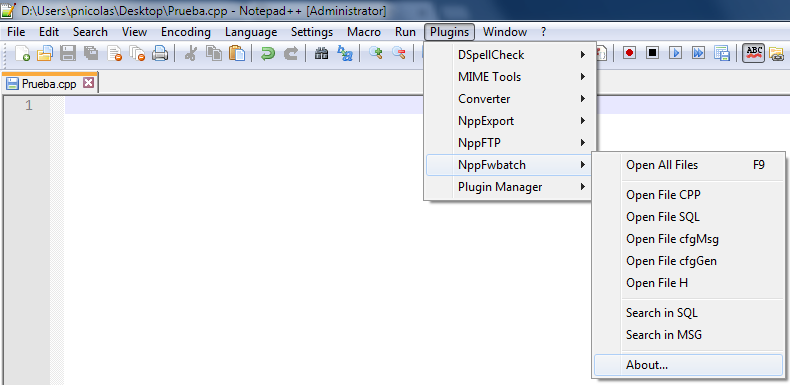
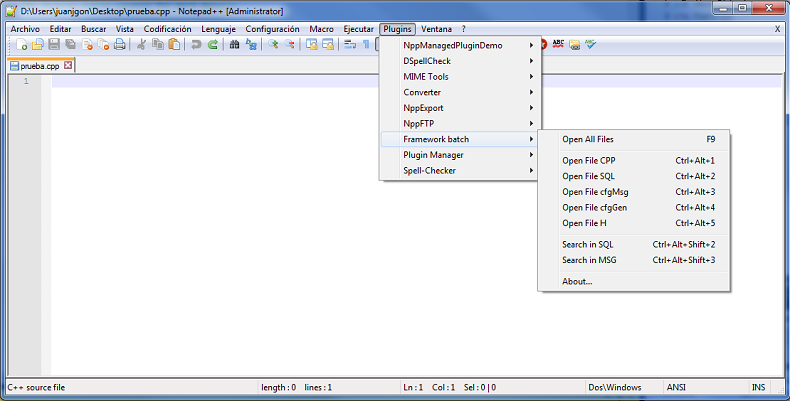
Correcciones menores

Changed region(s): [[0.0, 0.0, 1.0, 1.0]]

diff --git a/Class/Filefw.cpp b/Class/Filefw.cpp
@@ -37,6 +37,8 @@ Filefw::~Filefw()
 wchar_t* Filefw::FileType(wchar_t* nomFich) {
 
 	wchar_t * aux;
+
+	if (nomFich == NULL || wcslen(nomFich) == 0) return false;
 	// Recorremos todos los tipos de fichero mapeados
 	for (std::map<wchar_t*, fileData>::iterator i = filesfw.begin(); i != filesfw.end(); ++i){
 		//Buscamos que tenga ese sufijo
@@ -56,7 +58,7 @@ wchar_t* Filefw::FileType(wchar_t* nomFich) {
 // Indica si es un fichero valido incluido en el listado
 bool Filefw::isFileTypeOK(wchar_t* nomFich) {
 
-	if (nomFich == NULL) {
+	if (nomFich == NULL || wcslen(nomFich) == 0) {
 		return false;
 	}
 
@@ -77,7 +79,7 @@ bool Filefw::isFileTypeOK(wchar_t* nomFich) {
 }
 
 bool Filefw::isType(wchar_t* FileType) {
-	try {
+
 		wchar_t* aux = NULL;
 
 		wchar_t nomFich[MAX_PATH];
@@ -98,10 +100,6 @@ bool Filefw::isType(wchar_t* FileType) {
 		}
 			
 		return false;
-	}
-	catch (...) {
-		return false;
-	}
 }
 
 // Devuelve el tipo de fichero conforme al mapeo de ficheros cargado.
@@ -109,6 +107,8 @@ bool Filefw::isType(wchar_t* FileType) {
 wchar_t* Filefw::FileTypeMap(wchar_t* nomFich) {
 
 	wchar_t * aux;
+
+	if (nomFich == NULL ||  wcslen(nomFich) == 0) return NULL;
 	// Recorremos todos los tipos de fichero mapeados
 	for (std::map<wchar_t*, fileData>::iterator i = filesfw.begin(); i != filesfw.end(); ++i){
 		//Buscamos que tenga ese sufijo
@@ -127,6 +127,9 @@ int Filefw::pathBase(wchar_t* pathFich, wchar_t* pathFichOut) {
 
 	wchar_t * sufijo = TEXT("\\..\\");
 
+	if (pathFich == NULL || wcslen(pathFich) == 0) {
+		return 0;
+	}
 	//int len = wcslen(pathFich) ;
 	wcscpy(pathFichOut, pathFich);
 	wcscat(pathFichOut, sufijo);
@@ -136,6 +139,9 @@ int Filefw::pathBase(wchar_t* pathFich, wchar_t* pathFichOut) {
 
 int Filefw::fileBase(wchar_t* nomFich, wchar_t* nomFichOut){
 
+	if (nomFich == NULL || wcslen(nomFich) == 0) {
+		return 0;
+	}
 	int longitud = 0;
 	wchar_t* tipoActual = Filefw::FileTypeMap(nomFich);
 	wcscpy(nomFichOut, TEXT(""));
@@ -149,6 +155,9 @@ int Filefw::fullPathByType(wchar_t* pathFich, wchar_t* nomFich, wchar_t* tipoSol
 
 	wchar_t pathCompleta[MAX_PATH] = TEXT("");
 	wchar_t nomCompleto[MAX_PATH] = TEXT("");
+
+	if (pathFich == NULL || nomFich == NULL || wcslen(pathFich) == 0 || wcslen(nomFich) == 0) return 0;
+
 	// Construimos el path completo
 	Filefw::pathBase(pathFich, pathCompleta);
 	wcscat(pathCompleta, filesfw[tipoSolicitado]._path);
@@ -186,8 +195,10 @@ void Filefw::openFileByType(wchar_t* typeFile){
 	wchar_t fullPathOut[MAX_PATH];
 
 	Filefw::currentPath(path);
+
 	Filefw::currentFileName(fileName);
-	if (path == NULL || fileName == NULL) return;
+
+	if (path == NULL || fileName == NULL || wcslen(path) == 0 || wcslen(fileName) == 0) return;
 	if (Filefw::fullPathByType(path, fileName, typeFile, fullPathOut) > 0) {
 		openFile(fullPathOut);
 	}
@@ -199,6 +210,7 @@ void Filefw::openAllFiles() {
 	wchar_t originalpath[MAX_PATH];
 
 	getFullPathFile(originalpath, MAX_PATH);
+	if (originalpath == NULL ||  wcslen(originalpath) == 0 ) return;
 
 	for (std::map<wchar_t*, fileData>::iterator i = filesfw.begin(); i != filesfw.end(); ++i){
 		Filefw::openFileByType(i->first);
@@ -210,7 +222,7 @@ void Filefw::openAllFiles() {
 
 void Filefw::searchTextInFileType(const char * text, wchar_t* typeFile)
 {
-
+	if (typeFile == NULL || text == NULL || wcslen(typeFile) == 0 || strlen(text) == 0) return;
 	Filefw::openFileByType(typeFile);
 	searchAndGo(text);
 	
@@ -223,6 +235,8 @@ void Filefw::searchCursorInFileType(wchar_t* typeFile)
 	int longitud = MAX_PATH;
 	wchar_t* aux = NULL;
 	wchar_t nomFich[MAX_PATH];
+
+	if (typeFile == NULL || wcslen(typeFile) == 0) return;
 
 	if (getCurrentWord(text, longitud) > 0) {
 

diff --git a/PluginDefinition.cpp b/PluginDefinition.cpp
@@ -29,18 +29,25 @@ static void NppGoMSG();
 static void showAbout();
 
 // --- Global variables ---
-ShortcutKey sk1 = {false, false, false, 0x78};
+ShortcutKey sk1 = {false, false, false, 0x78};  // F9
+ShortcutKey sk2 = { true, true, false, 0x31 }; // 1
+ShortcutKey sk3 = { true, true, false, 0x32 }; // 2
+ShortcutKey sk4 = { true, true, false, 0x33 }; // 3
+ShortcutKey sk5 = { true, true, false, 0x34 }; // 4
+ShortcutKey sk6 = { true, true, false, 0x35 }; // 5
+ShortcutKey sk7 = { true, true, true, 0x32 }; // 2
+ShortcutKey sk8 = { true, true, true, 0x33 }; // 3
 FuncItem funcItem[nbFunc] = {
 	{ TEXT("Open All Files"), NppFwbatchOpenAllFiles, 0, false, &sk1 },
 	{ TEXT(""), NULL, 0, false, NULL }, // separator
-	{ TEXT("Open File CPP"), NppFwbatchOpenFileCPP, 0, false, NULL },
-	{ TEXT("Open File SQL"), NppFwbatchOpenFileSQL, 0, false, NULL },
-	{ TEXT("Open File cfgMsg"), NppFwbatchOpenFileMSG, 0, false, NULL },
-	{ TEXT("Open File cfgGen"), NppFwbatchOpenFileGEN, 0, false, NULL },
-	{ TEXT("Open File H"), NppFwbatchOpenFileH, 0, false, NULL },
+	{ TEXT("Open File CPP"), NppFwbatchOpenFileCPP, 0, false, &sk2 },
+	{ TEXT("Open File SQL"), NppFwbatchOpenFileSQL, 0, false, &sk3 },
+	{ TEXT("Open File cfgMsg"), NppFwbatchOpenFileMSG, 0, false, &sk4 },
+	{ TEXT("Open File cfgGen"), NppFwbatchOpenFileGEN, 0, false, &sk5 },
+	{ TEXT("Open File H"), NppFwbatchOpenFileH, 0, false, &sk6 },
 	{TEXT(""),                  NULL,					0, false, NULL}, // separator
-	{ TEXT("Search in SQL"), NppGoSQL, 0, false, NULL },
-	{ TEXT("Search in MSG"), NppGoMSG, 0, false, NULL },
+	{ TEXT("Search in SQL"), NppGoSQL, 0, false, &sk7 },
+	{ TEXT("Search in MSG"), NppGoMSG, 0, false, &sk8 },
 	{ TEXT(""), NULL, 0, false, NULL }, // separator
 	{TEXT("About..."),          showAbout,				0, false, NULL}
 };

diff --git a/PluginDefinition.h b/PluginDefinition.h
@@ -24,7 +24,8 @@
 
 #define SCI_UNUSED 0
 
-const wchar_t NPP_PLUGIN_NAME[] = TEXT("NppFwbatch");
+//const wchar_t NPP_PLUGIN_NAME[] = TEXT("NppFwbatch");
+const wchar_t NPP_PLUGIN_NAME[] = TEXT("Framework batch");
 const int nbFunc = 12;
 
 // --- Helper functions ---
